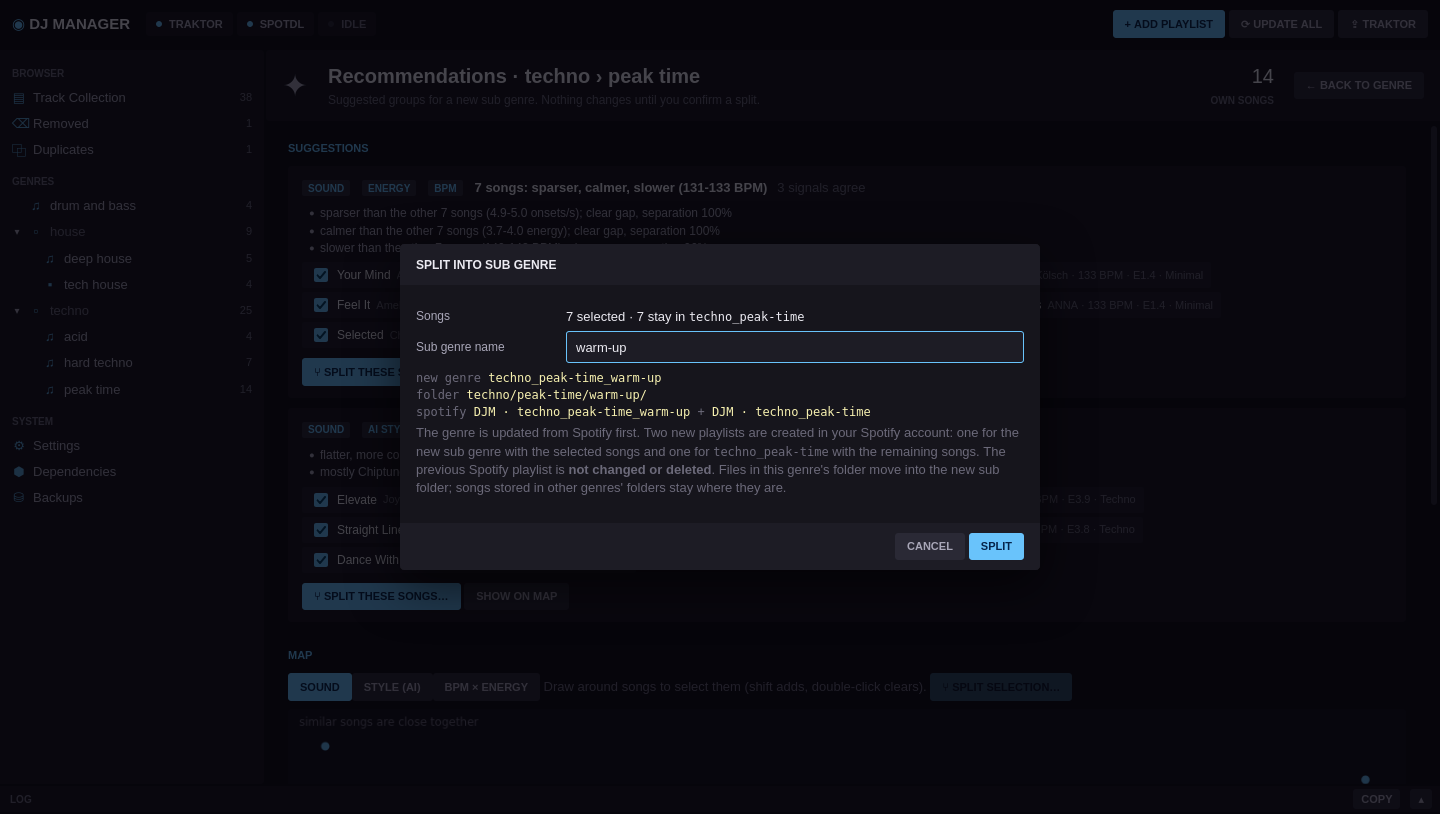
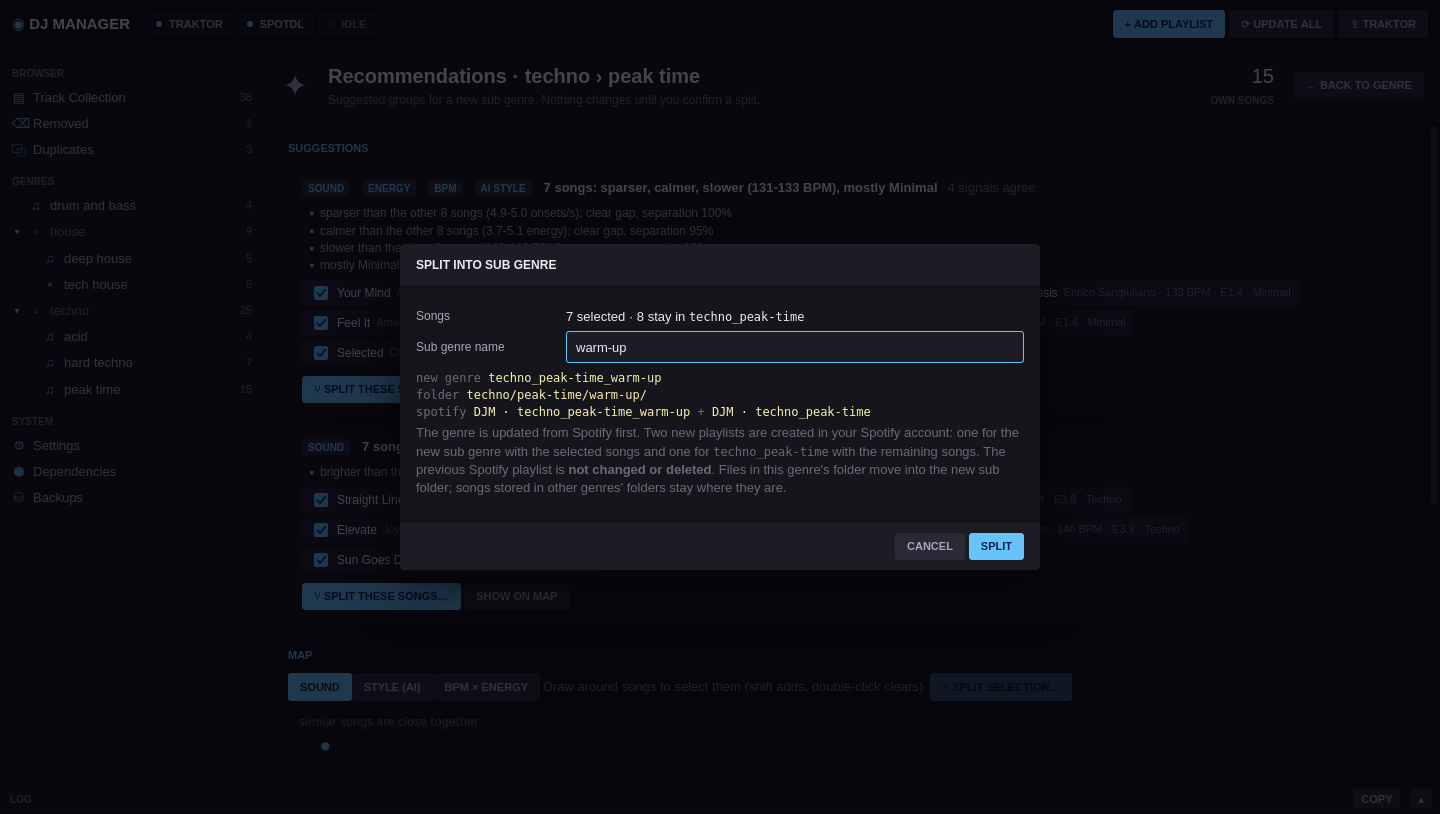
Update the screenshots for 0.3.2, including the duplicates cleanup
The demo library gets identical copies in other genres, so the
Duplicates view shows certain and maybe-duplicates.

Changed region(s): [[0.1875, 0.3071, 0.2812, 0.5835], [0.3438, 0.215, 0.6562, 0.2457], [0.25, 0.645, 0.2812, 0.7064]]

diff --git a/packaging/screenshots.py b/packaging/screenshots.py
@@ -243,6 +243,10 @@ def main() -> None:
         for artist, title, album, bpm, kind in tracks:
             n += 1
             make_track(args.ffmpeg, music / folder / f"{artist} - {title}.mp3", artist, title, album, bpm, kind, n)
+    # certain duplicates (identical files in another genre) for the Duplicates view
+    for src, dst in (("house/deep-house/Kerri Chandler - Rain.mp3", "house/tech-house"),
+                     ("techno/hard-techno/Dax J - Offender.mp3", "techno/peak-time")):
+        shutil.copy2(music / src, music / dst / Path(src).name)
     print(f"{n} demo tracks in {music}")
 
     env = {**os.environ, "DJMANAGER_HOME": str(home), "PATH": f"{Path(args.ffmpeg).parent}{os.pathsep}{os.environ['PATH']}"}
